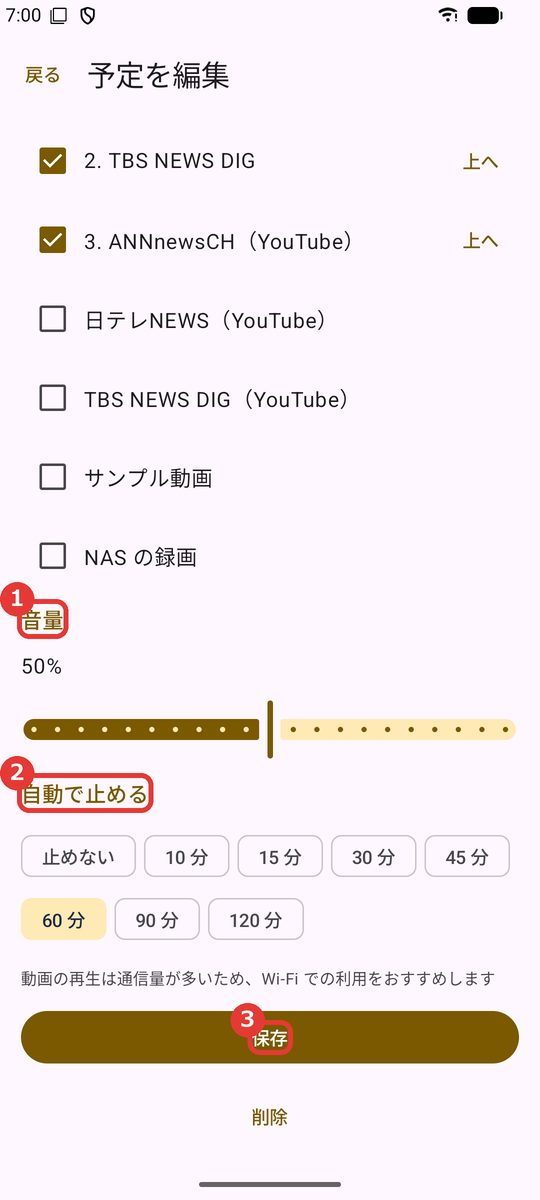
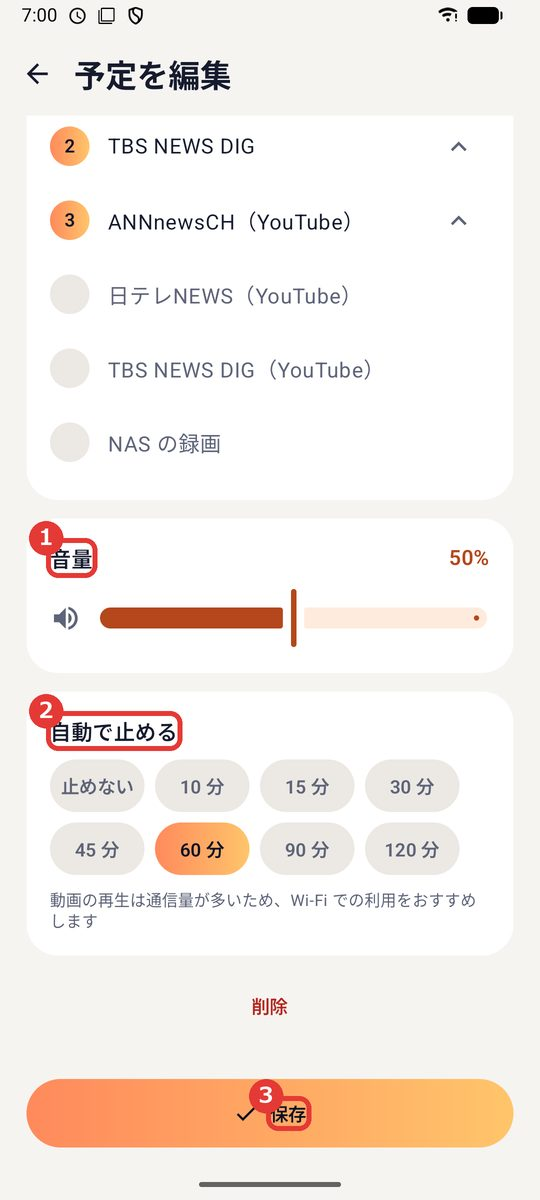
おはようニュースタイマー：新しいデザインの画像と使い方にする
- 紹介ページ・使い方のページの画像を撮り直し、待機の画面を足した
- 使い方の手順を、新しいボタンとタブに合わせた

Changed region(s): [[0.0, 0.0, 0.9778, 0.9558], [0.8593, 0.185, 0.9185, 0.2158], [0.8593, 0.1233, 0.9185, 0.1542]]

diff --git a/morning-news/manual.html b/morning-news/manual.html
@@ -11,7 +11,7 @@
 <p><a href="./">おはようニュースタイマー の紹介ページへ戻る</a></p>
 <h1>おはようニュースタイマー の使い方</h1>
 <p>おはようニュースタイマー（Good Morning News Timer）は、決めた時刻にニュースの再生を自動で始めるアプリです。</p>
-<p class="note">この説明は バージョン 0.1.0 の画面に合わせています（2026年11月25日、NAS のフォルダをたどる画面を追加）。画面はこれから変わることがあります。画像の赤い枠と番号は、説明の番号と同じところです。</p>
+<p class="note">この説明は バージョン 0.1.0 の画面に合わせています（2026年11月25日、デザインを新しくしました）。画面はこれから変わることがあります。画像の赤い枠と番号は、説明の番号と同じところです。</p>
 
 <ol class="toc">
 <li><a href="#start">はじめに（許可）</a></li>
@@ -40,10 +40,10 @@
 <h2 id="home">2. ホームの画面</h2>
 <img class="shot" src="images/manual/home.jpg" width="540" height="1200" loading="lazy" alt="ホームの画面">
 <ol>
-<li><strong>「次の再生」</strong>：次に再生する曜日と時刻です</li>
+<li>次に再生する曜日と時刻、最初に試す情報源と、それまでの残りの時間です</li>
 <li>予定を押すと編集できます。右のスイッチで ON / OFF を切り替えます</li>
-<li><strong>「▶ いま再生」</strong>：その予定の内容を、すぐに試せます</li>
-<li><strong>「情報源」</strong>：再生するページ・URL・NAS を見たり足したりします</li>
+<li><strong>▶</strong>：その予定の内容を、すぐに試せます</li>
+<li><strong>「情報源」</strong>：再生するページ・URL・NAS を見たり足したりします。下のタブで「ホーム」「情報源」「設定」を切り替えます</li>
 </ol>
 
 <h2 id="alarm">3. 予定を作る</h2>
@@ -55,8 +55,8 @@
 <ol>
 <li>時刻を押し、時計の窓（右）で時と分を選んで<strong>「OK」</strong>を押します</li>
 <li><strong>「曜日」</strong>：再生する曜日を押して選びます</li>
-<li><strong>「情報源」</strong>：使うものにチェックを付けます。番号の順に試します</li>
-<li><strong>「上へ」</strong>：試す順を上げます</li>
+<li><strong>「情報源」</strong>：使うものを押すと番号が付きます。番号の順に試します。もう一度押すと外れます</li>
+<li><strong>上向きの矢印</strong>：試す順を上げます</li>
 </ol>
 <img class="shot" src="images/manual/edit-bottom.jpg" width="540" height="1200" loading="lazy" alt="予定の編集の下のほう">
 <ol>
@@ -66,15 +66,19 @@
 </ol>
 
 <h2 id="player">4. 再生の画面</h2>
+<div class="shots">
+<img class="shot" src="images/manual/waiting.jpg" width="540" height="1200" loading="lazy" alt="音が出るまでの画面">
 <img class="shot" src="images/manual/player.jpg" width="540" height="1200" loading="lazy" alt="再生の画面">
+</div>
+<p>音が出るまでは、夜明けの空と時計（左）が出ます。画面を押すと、後ろのページを見られます。音が出ると再生の画面（右）に変わります。</p>
 <ol>
-<li>いま再生している情報源の名前です</li>
-<li><strong>「次の情報源」</strong>：予定の次の情報源に切り替えます</li>
-<li><strong>「停止」</strong>：再生を止めて、音量を元に戻します</li>
+<li>いま再生している情報源やファイルの名前です</li>
+<li><strong>次の情報源</strong>のボタン：予定の次の情報源に切り替えます</li>
+<li><strong>停止</strong>のボタン：再生を止めて、音量を元に戻します</li>
 </ol>
 <ul>
 <li>45 秒ほど待っても音が出ないときは、自動で次の情報源に進みます</li>
-<li>予定の情報源がどれも再生できないときは、代わりにアラームを鳴らします。「停止」で止まります</li>
+<li>予定の情報源がどれも再生できないときは、代わりにアラームを鳴らします。停止のボタンで止まります</li>
 </ul>
 
 <h2 id="sources">5. 情報源</h2>
@@ -82,7 +86,7 @@
 <ol>
 <li><strong>「URL を追加」</strong>：<a href="#url">6.</a> へ</li>
 <li><strong>「NAS を追加」</strong>：<a href="#nas">7.</a> へ</li>
-<li><strong>「▶ いま再生」</strong>：その情報源を試します</li>
+<li><strong>▶</strong>：その情報源を試します</li>
 </ol>
 <p>自分で足したものは、押すと直したり消したりできます。最初からあるものは直せません。</p>
 
@@ -91,9 +95,9 @@
 <ol>
 <li><strong>「名前」</strong>：一覧に出す名前です（空でもかまいません）</li>
 <li><strong>「URL」</strong>：ニュースのページ、YouTube、動画・音声（m3u8・mp4・mp3 など）の URL を入れます</li>
-<li><strong>「保存」</strong>を押します。予定で使うには、予定の編集でチェックを付けます</li>
+<li><strong>「保存」</strong>を押します。予定で使うには、予定の編集で選びます</li>
 </ol>
-<div class="tip">ページによっては、自動で再生が始まらないことがあります。「▶ いま再生」で試してから予定に使ってください。ログインが必要なページには向きません。</div>
+<div class="tip">ページによっては、自動で再生が始まらないことがあります。▶ で試してから予定に使ってください。ログインが必要なページには向きません。</div>
 
 <h2 id="nas">7. NAS を追加する</h2>
 <p>「情報源」の「NAS を追加」を押します。画像のアドレスは見本です。</p>
@@ -121,7 +125,7 @@
 <ol>
 <li><strong>「このフォルダを使う」</strong>：いまのフォルダに決めます</li>
 <li>中の新しいファイルの名前が 5 件まで出ます。目当てのフォルダかどうかの目印にしてください</li>
-<li><strong>「上のフォルダへ」</strong>：1 つ戻ります。端末の「戻る」でもかまいません</li>
+<li><strong>上向きの矢印</strong>：1 つ上のフォルダに戻ります。端末の「戻る」でもかまいません</li>
 </ol>
 <ul>
 <li>フォルダの場所は、<code>\\192.168.1.10\video\news</code> のように直接入れることもできます</li>
@@ -133,8 +137,8 @@
 <h2 id="settings">8. 設定</h2>
 <img class="shot" src="images/manual/settings.jpg" width="540" height="1200" loading="lazy" alt="設定の画面">
 <ol>
-<li><strong>「プライバシーポリシー」</strong>：このサイトのページを開きます</li>
 <li><strong>「言語」</strong>：12 言語から選べます。「自動」なら端末の言語です</li>
+<li><strong>「プライバシーポリシー」</strong>：このサイトのページを開きます</li>
 </ol>
 
 <h2 id="faq">9. よくある質問</h2>
